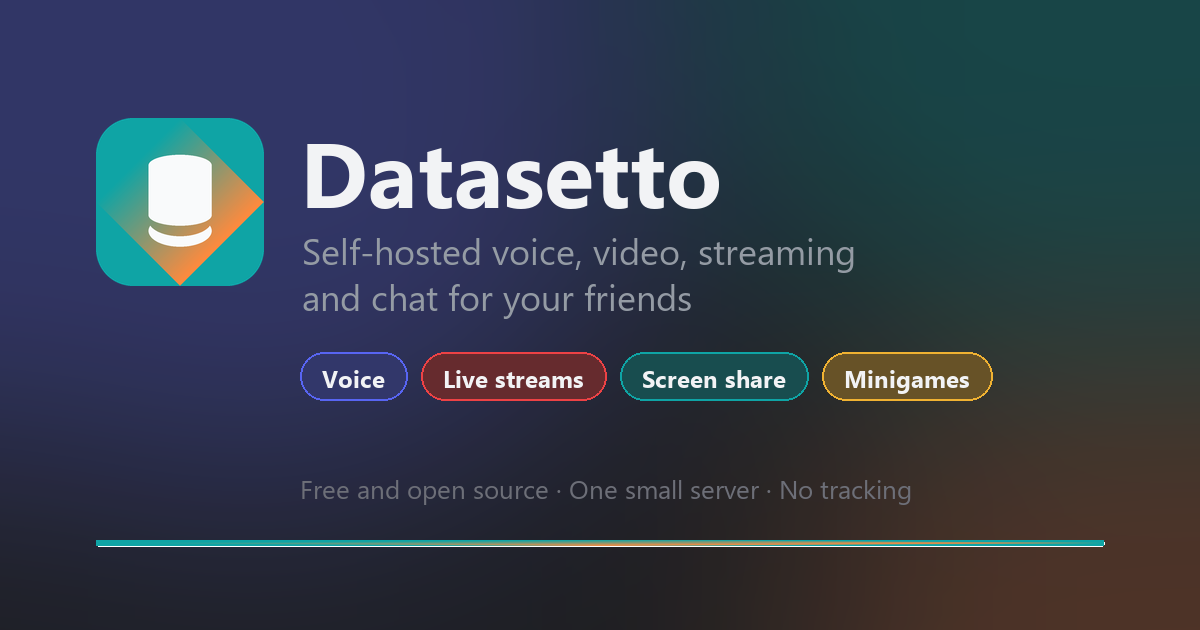
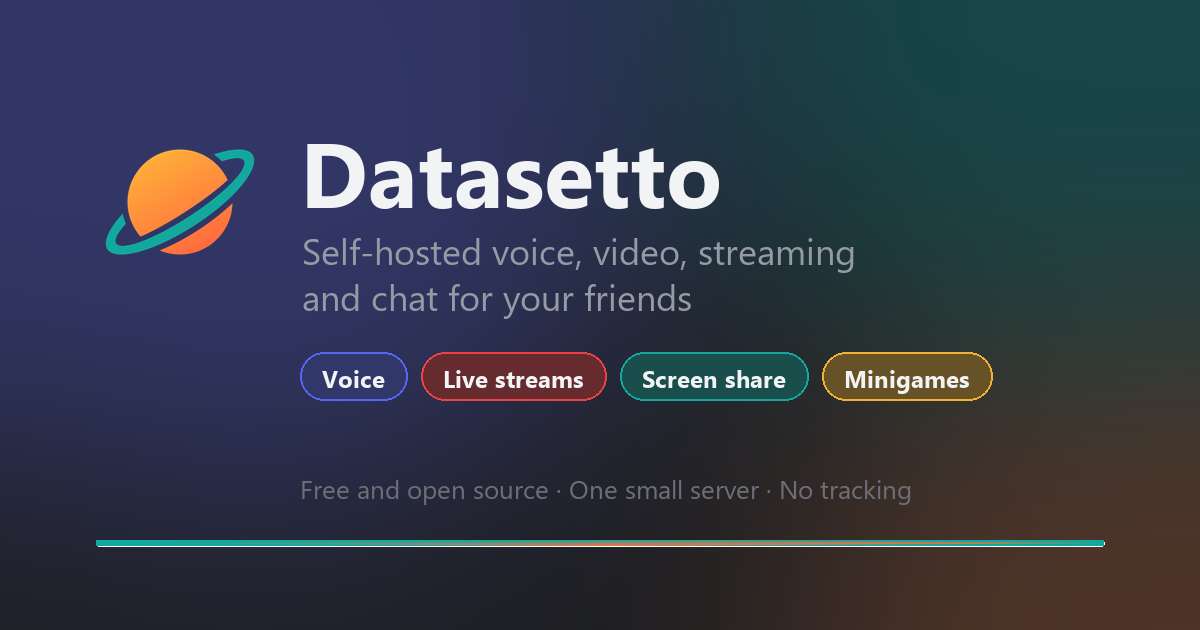
Brand: the social card uses the Orbit mark; brand-assets.py draws only og-image.png
The script took its logo from the old drawing and also rewrote icon-192, icon-512 and
apple-touch-icon, so a rerun would have put the old icons back. It now reads the mark
from brand/logo-1024.png and writes og-image.png only; the icons come from
brand/generate.mjs. The pill labels are unchanged.

Changed region(s): [[0.0617, 0.181, 0.2467, 0.4524]]

diff --git a/client/scripts/brand-assets.py b/client/scripts/brand-assets.py
@@ -1,15 +1,16 @@
-"""Generate the PNG brand assets (icons and the social card) from the SVG logo's geometry.
+"""Draw the Open Graph card (og-image.png) with the Datasetto mark.
 
 Usage: python scripts/brand-assets.py public   (needs Pillow; fonts are read from C:/Windows/Fonts,
 adjust FONT_BOLD/FONT_REG on other systems). Re-run when the tagline or the logo changes.
+The mark comes from brand/logo-1024.png; the app icons are drawn by brand/generate.mjs, not here.
 """
 import sys
+from pathlib import Path
 from PIL import Image, ImageDraw, ImageFont, ImageFilter
 
 OUT = sys.argv[1]
-TEAL = (15, 164, 165)
-ORANGE = (255, 138, 61)
-WHITE = (249, 250, 251)
+TEAL = (18, 168, 157)  # brand teal #12A89D
+ORANGE = (255, 106, 61)  # brand persimmon #FF6A3D
 BASE = (30, 31, 34)
 BRIGHT = (242, 243, 245)
 MUTED = (148, 155, 164)
@@ -17,6 +18,7 @@ BRAND = (88, 101, 242)
 
 FONT_BOLD = "C:/Windows/Fonts/segoeuib.ttf"
 FONT_REG = "C:/Windows/Fonts/segoeui.ttf"
+MARK = Path(__file__).resolve().parents[2] / "brand" / "logo-1024.png"
 
 
 def gradient(size, c1, c2):
@@ -28,30 +30,8 @@ def gradient(size, c1, c2):
 
 
 def logo(size):
-    """The favicon: rounded gradient square with the white stack glyph. Rendered at 4x."""
-    s = size * 4
-    u = s / 64  # svg user unit
-    mask = Image.new("L", (s, s), 0)
-    ImageDraw.Draw(mask).rounded_rectangle((0, 0, s - 1, s - 1), radius=int(14 * u), fill=255)
-    img = Image.new("RGBA", (s, s), (0, 0, 0, 0))
-    img.paste(gradient(s, TEAL, ORANGE), (0, 0), mask)
-    d = ImageDraw.Draw(img)
-    # body: x 20..44, y 18..37 with curved top (concave rim) and convex bottom
-    d.rectangle((20 * u, 18 * u, 44 * u, 37 * u), fill=WHITE)
-    d.ellipse((20 * u, 33 * u, 44 * u, 41 * u), fill=WHITE)
-    # top rim: cut a lens out of the body top, then add the lighter cap below it
-    cap = Image.new("RGBA", (s, s), (0, 0, 0, 0))
-    cd = ImageDraw.Draw(cap)
-    cd.ellipse((20 * u, 14 * u, 44 * u, 22 * u), fill=WHITE)
-    img.alpha_composite(cap)
-    # lower stripe: a crescent band under the body
-    band = Image.new("RGBA", (s, s), (0, 0, 0, 0))
-    bd = ImageDraw.Draw(band)
-    bd.ellipse((20 * u, 37 * u, 44 * u, 49 * u), fill=WHITE)
-    bd.ellipse((20 * u, 33 * u, 44 * u, 45 * u), fill=(0, 0, 0, 0))
-    bd.rectangle((0, 0, s, 41 * u), fill=(0, 0, 0, 0))
-    img.alpha_composite(band)
-    return img.resize((size, size), Image.LANCZOS)
+    """The Datasetto mark (brand/logo-1024.png, drawn by brand/generate.mjs) at size x size px."""
+    return Image.open(MARK).convert("RGBA").resize((size, size), Image.LANCZOS)
 
 
 def social_card():
@@ -92,6 +72,4 @@ def social_card():
 
 
 social_card().save(f"{OUT}/og-image.png", optimize=True)
-for name, size in (("apple-touch-icon.png", 180), ("icon-192.png", 192), ("icon-512.png", 512)):
-    logo(size).save(f"{OUT}/{name}", optimize=True)
-print("assets written")
+print("og-image.png written")

diff --git a/client/README.md b/client/README.md
@@ -68,7 +68,7 @@ src/
   test/setup.ts            vitest environment (jsdom)
 public/                    copied as-is: landing.html, downloads.html, robots.txt, sitemap.xml, site.webmanifest, icons,
                            sw.js (the push service worker, plain JS, no caching)
-scripts/brand-assets.py    redraws the PNG icons and the Open Graph card (Pillow)
+scripts/brand-assets.py    redraws the Open Graph card with the logo from brand/ (Pillow)
 ```
 
 ## Notifications
@@ -581,4 +581,4 @@ styles use Tailwind's `pointer-coarse:` variant, so a desktop window of the same
 `public/sitemap.xml` and `public/site.webmanifest` go with them. They contain `__SITE_URL__` and `__BUILD_DATE__`
 placeholders that `vite.config.js` fills at build time from `VITE_SITE_URL` (the Caddy image passes `SITE_URL` from
 `ops/.env`); without a site URL the pages use relative canonical links and the sitemap line is left out of robots.txt.
-The app page (`/app`) is `noindex`. PNG icons and the Open Graph card are generated by `scripts/brand-assets.py`.
+The app page (`/app`) is `noindex`. The icons are generated by `brand/generate.mjs` (see `brand/README.md`) and the Open Graph card by `scripts/brand-assets.py`.

diff --git a/brand/README.md b/brand/README.md
@@ -37,7 +37,7 @@ The outputs are committed. Builds (desktop packaging, the release workflow, the 
 - `mobile/android/app/src/main/res/`: `ic_launcher`, `ic_launcher_round` and `ic_launcher_foreground` in every mipmap density, the adaptive icon XML with a monochrome layer for Android 13 themed icons (`drawable/ic_launcher_monochrome.xml`), the Night background colour, the notification icon `drawable/ic_stat_datasetto.xml` and `splash.png` in every drawable density and orientation.
 - `mobile/ios/App/App/Assets.xcassets/`: the 1024 App Store icon and the three splash images.
 
-`client/public/og-image.png` and `client/public/landing.html` are made separately (`client/scripts/brand-assets.py`).
+`client/public/og-image.png` (the social card) is drawn by `client/scripts/brand-assets.py`, which takes the mark from `brand/logo-1024.png`: rerun it after changing the mark. `client/public/landing.html` uses `/favicon.svg`.
 
 ## Tray states
 
